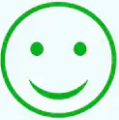
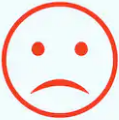
update README and replace faces to reflect the happy scenario

diff --git a/README.md b/README.md
@@ -1,27 +1,51 @@
 # AssetsReplicate
+This is replicating following issue https://github.com/angular/angular-cli/issues/18787
 
-This project was generated with [Angular CLI](https://github.com/angular/angular-cli) version 10.1.4.
+## The problem
+`ng serve` and `ng build` are using different order of assets defined in `angular.json`.
 
-## Development server
+## How to replicate
+* run `npm install`
+* run `ng serve`
+* navigate to http://localhost:4200/
+* see sad face
+* ![Happy face](/src/new-assets/face.png)
+* run `ng build`
+* check compiled image asset in `dist/assets-replicate/assets/face.png`
+* see happy face
+* ![Happy face](/src/assets/face.png)
 
-Run `ng serve` for a dev server. Navigate to `http://localhost:4200/`. The app will automatically reload if you change any of the source files.
+So it example above it's working fine for build but wrong for serve.
+If we switch the order in `angular.json` the faces will be reversed for these commands as well.
+```
+diff --git a/angular.json b/angular.json
+index 3f22e27..8df7e00 100644
+--- a/angular.json
++++ b/angular.json
+@@ -24,13 +24,13 @@
+             "tsConfig": "tsconfig.app.json",
+             "aot": true,
+             "assets": [
+-              "src/favicon.ico",
+-              "src/assets",
+               {
+                 "glob": "**/*",
+                 "input": "src/new-assets/",
+                 "output": "/assets/"
+-              }
++              },
++              "src/favicon.ico",
++              "src/assets"
+             ],
+             "styles": [
+               "src/styles.scss"
+```
 
-## Code scaffolding
-
-Run `ng generate component component-name` to generate a new component. You can also use `ng generate directive|pipe|service|class|guard|interface|enum|module`.
-
-## Build
-
-Run `ng build` to build the project. The build artifacts will be stored in the `dist/` directory. Use the `--prod` flag for a production build.
-
-## Running unit tests
-
-Run `ng test` to execute the unit tests via [Karma](https://karma-runner.github.io).
-
-## Running end-to-end tests
-
-Run `ng e2e` to execute the end-to-end tests via [Protractor](http://www.protractortest.org/).
-
-## Further help
-
-To get more help on the Angular CLI use `ng help` or go check out the [Angular CLI README](https://github.com/angular/angular-cli/blob/master/README.md).
+* run `ng serve`
+* navigate to http://localhost:4200/
+* see happy face
+* ![Happy face](/src/assets/face.png)
+* run `ng build`
+* check compiled image asset in `dist/assets-replicate/assets/face.png`
+* see sad face
+* ![Happy face](/src/new-assets/face.png)
